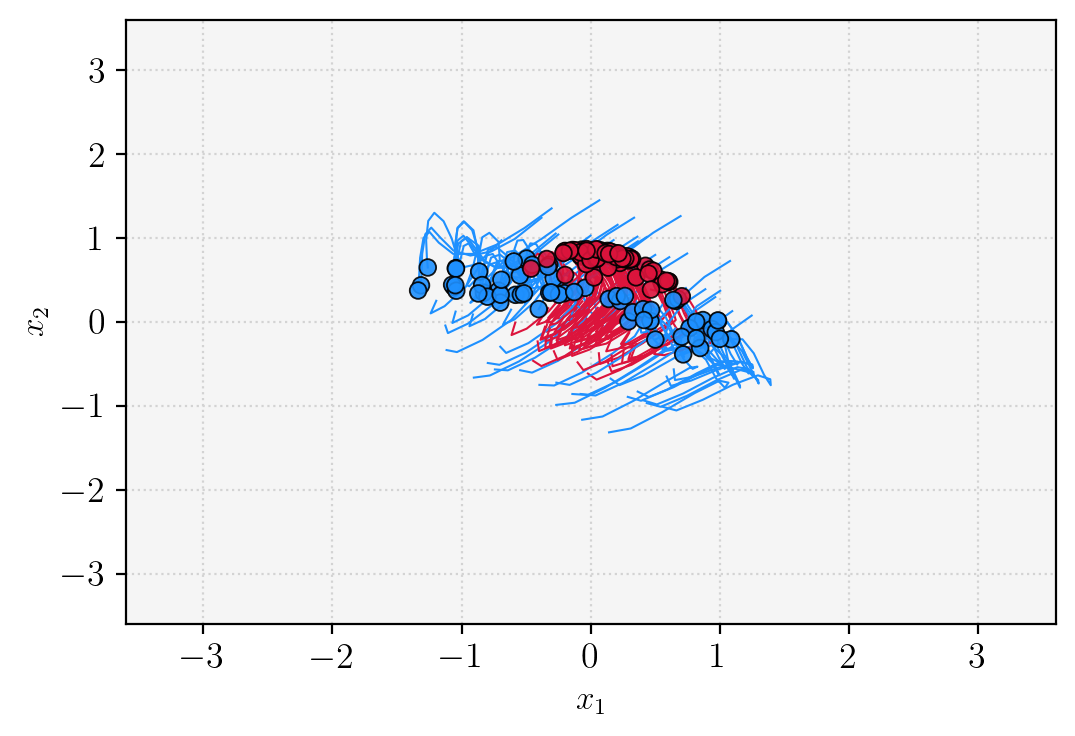
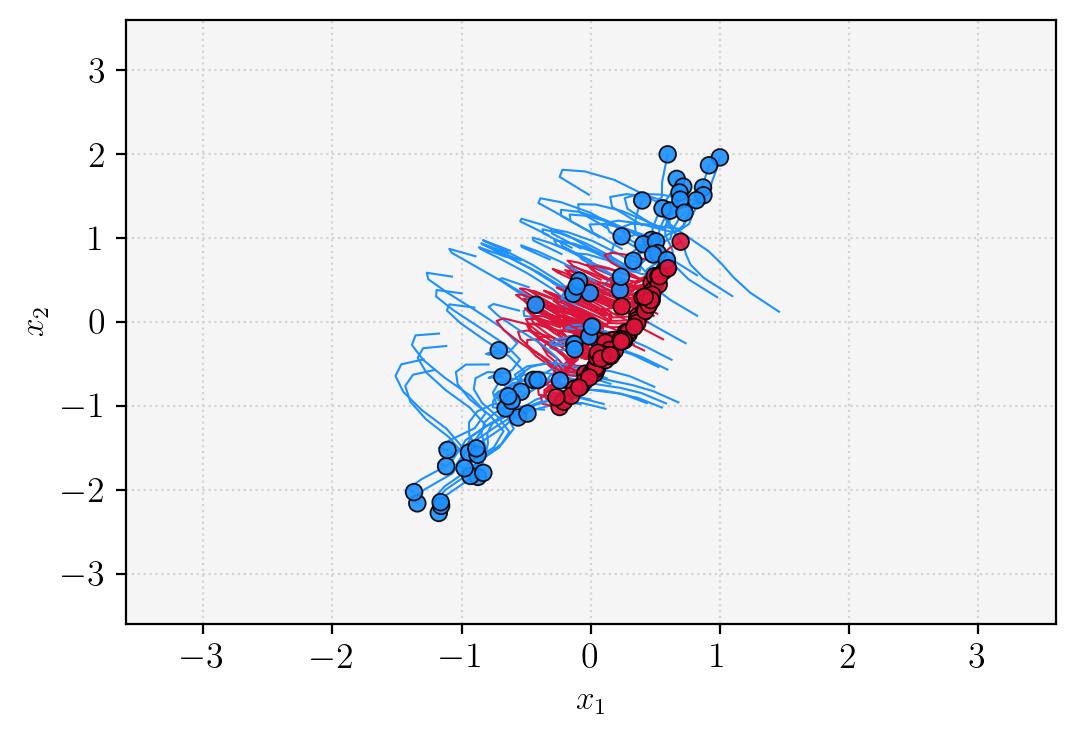
before trying to build eps trainer

Changed region(s): [[0.3684, 0.1875, 0.7367, 0.7188]]

diff --git a/models/training.py b/models/training.py
@@ -312,6 +312,158 @@ class robTrainer():
         return epoch_loss / len(data_loader)
 
 
+class newTrainer():
+    """
+    Given an optimizer, we write the training loop for minimizing the functional.
+    We need several hyperparameters to define the different functionals.
+
+    ***
+    -- The boolean "turnpike" indicates whether we integrate the training error over [0,T]
+    where T is the time horizon intrinsic to the model.
+    -- The boolean "fixed_projector" indicates whether the output layer is given or trained
+    -- The float "bound" indicates whether we consider L1+Linfty reg. problem (bound>0.), or 
+    L2 reg. problem (bound=0.). If bound>0., then bound represents the upper threshold for the 
+    weights+biases.
+    ***
+    """
+    def __init__(self, model, optimizer, device, cross_entropy=True,
+                 print_freq=10, record_freq=10, verbose=True, save_dir=None, 
+                 turnpike=True, bound=0., fixed_projector=False):
+        self.model = model
+        self.optimizer = optimizer
+        self.cross_entropy = cross_entropy
+        self.device = device
+        if cross_entropy:
+            self.loss_func = losses['cross_entropy']
+        else:
+            #self.loss_func = losses['mse']
+            self.loss_func = nn.MultiMarginLoss()
+        self.print_freq = print_freq
+        self.record_freq = record_freq
+        self.steps = 0
+        self.save_dir = save_dir
+        self.verbose = verbose
+        self.turnpike = turnpike
+        # In case we consider L1-reg. we threshold the norm. 
+        # Examples: M \sim T for toy datasets; 200 for mnist
+        self.threshold = bound    
+        self.fixed_projector = fixed_projector
+
+        self.histories = {'loss_history': [], 'acc_history': [],
+                          'epoch_loss_history': [], 'epoch_acc_history': []}
+        self.buffer = {'loss': [], 'accuracy': []}
+        self.is_resnet = hasattr(self.model, 'num_layers')
+
+    def train(self, data_loader, num_epochs):
+        for epoch in range(num_epochs):
+            avg_loss = self._train_epoch(data_loader, epoch)
+            if self.verbose:
+                print("Epoch {}: {:.3f}".format(epoch + 1, avg_loss))
+
+    def _train_epoch(self, data_loader, epoch):
+        epoch_loss = 0.
+        epoch_acc = 0.
+
+        
+        rob_factor = 0.5 #changed from 0.2
+        for i, (x_batch, y_batch) in enumerate(data_loader):
+            self.optimizer.zero_grad()
+            x_batch = x_batch.to(self.device)
+            y_batch = y_batch.to(self.device)
+            
+            if not self.is_resnet:
+                y_pred, traj  = self.model(x_batch) 
+                adj_traj = torch.cat((self.model.adj_traj_p1, self.model.adj_traj_p2)) #added adj_traj here for output  
+                time_steps = self.model.time_steps 
+                T = self.model.T
+                dt = T/time_steps
+            else:
+                # In ResNet, dt=1=T/N_layers.
+                y_pred, traj = self.model(x_batch) 
+                adj_traj = torch.cat((self.model.adj_traj_p1, self.model.adj_traj_p2)) #added adj_traj here for output
+                time_steps = self.model.num_layers
+                T = time_steps
+                dt = 1 
+
+            if not self.turnpike:                                       ## Classical empirical risk minimization
+                loss = self.loss_func(y_pred, y_batch) + rob_factor*adj_traj[-1].square().sum()
+                # loss = 0.01* adj_traj[-1].matmul(adj_traj[-1])
+                print('no turnpike: |p(0)|^2',adj_traj[-1].square().sum())
+            else:                                                       ## Augmented empirical risk minimization
+                if self.threshold>0: # l1 controls
+                    l1_regularization = 0.
+                    for param in self.model.parameters():
+                        l1_regularization += param.abs().sum()
+                    ## lambda = 5*1e-3 for spheres+inside
+                    loss = 1.5*sum([self.loss_func(traj[k], y_batch)+self.loss_func(traj[k+1], y_batch) for k in range(time_steps-1)]) 
+                    + 0.005*l1_regularization + rob_factor*adj_traj[-1].square().sum()
+                    print('in l1 reg: |p(0)|^2',adj_traj[-1].square().sum())
+                else: #l2 controls
+                    if self.fixed_projector: #maybe not needed
+                        xd = torch.tensor([[6.0/0.8156, 0.5/(2*0.4525)] if x==1 else [-6.0/0.8156, -2.0/(2*0.4525)] for x in y_batch])
+                        loss = self.loss_func(y_pred, y_batch.float())+sum([self.loss_func(traj[k], xd)
+                                            +self.loss_func(traj[k+1], xd) for k in range(time_steps-1)]) + rob_factor*adj_traj[-1].square().sum()
+                    else:
+                        ## beta=1.5 for point clouds, trapizoidal rule to integrate
+                        beta = 1.75                      
+                        loss = beta*sum([self.loss_func(traj[k], y_batch)+self.loss_func(traj[k+1], y_batch) 
+                                        for k in range(time_steps-1)]) + rob_factor*adj_traj[-1].square().sum()
+                        print('in l2 control: |p(0)|^2',adj_traj[-1].square().sum())
+            loss.backward()
+            self.optimizer.step()
+            
+            clipper = WeightClipper(self.threshold)
+            if self.threshold>0: 
+                self.model.apply(clipper)       # We apply the Linfty constraint to the trained parameters
+            
+            if self.cross_entropy:
+                epoch_loss += self.loss_func(traj[-1], y_batch).item()   
+                m = nn.Softmax()
+                softpred = m(y_pred)
+                softpred = torch.argmax(softpred, 1)  
+                epoch_acc += (softpred == y_batch).sum().item()/(y_batch.size(0))       
+            else:
+                epoch_loss += self.loss_func(y_pred, y_batch).item()
+        
+            if i % self.print_freq == 0:
+                if self.verbose:
+                    print("\nEpoch {}/{}".format(i, len(data_loader)))
+                    if self.cross_entropy:
+                        print("Loss: {:.3f}".format(self.loss_func(traj[-1], y_batch).item()))
+                        print("Accuracy: {:.3f}".format((softpred == y_batch).sum().item()/(y_batch.size(0))))
+                        print("|p(0)|^2: {:.3f}".format(adj_traj[-1].matmul(adj_traj[-1])))
+                    else:
+                        print("Loss: {:.3f}".format(self.loss_func(y_pred, y_batch).item()))
+                        
+            self.buffer['loss'].append(self.loss_func(traj[-1], y_batch).item())
+            if not self.fixed_projector and self.cross_entropy:
+                self.buffer['accuracy'].append((softpred == y_batch).sum().item()/(y_batch.size(0)))
+
+            # At every record_freq iteration, record mean loss and clear buffer
+            if self.steps % self.record_freq == 0:
+                self.histories['loss_history'].append(mean(self.buffer['loss']))
+                if not self.fixed_projector and self.cross_entropy:
+                    self.histories['acc_history'].append(mean(self.buffer['accuracy']))
+
+                # Clear buffer
+                self.buffer['loss'] = []
+                self.buffer['accuracy'] = []
+
+                # Save information in directory
+                if self.save_dir is not None:
+                    dir, id = self.save_dir
+                    with open('{}/losses{}.json'.format(dir, id), 'w') as f:
+                        json.dump(self.histories['loss_history'], f)
+
+            self.steps += 1
+
+        # Record epoch mean information
+        self.histories['epoch_loss_history'].append(epoch_loss / len(data_loader))
+        if not self.fixed_projector:
+            self.histories['epoch_acc_history'].append(epoch_acc / len(data_loader))
+
+        return epoch_loss / len(data_loader)
+
 
 
 
